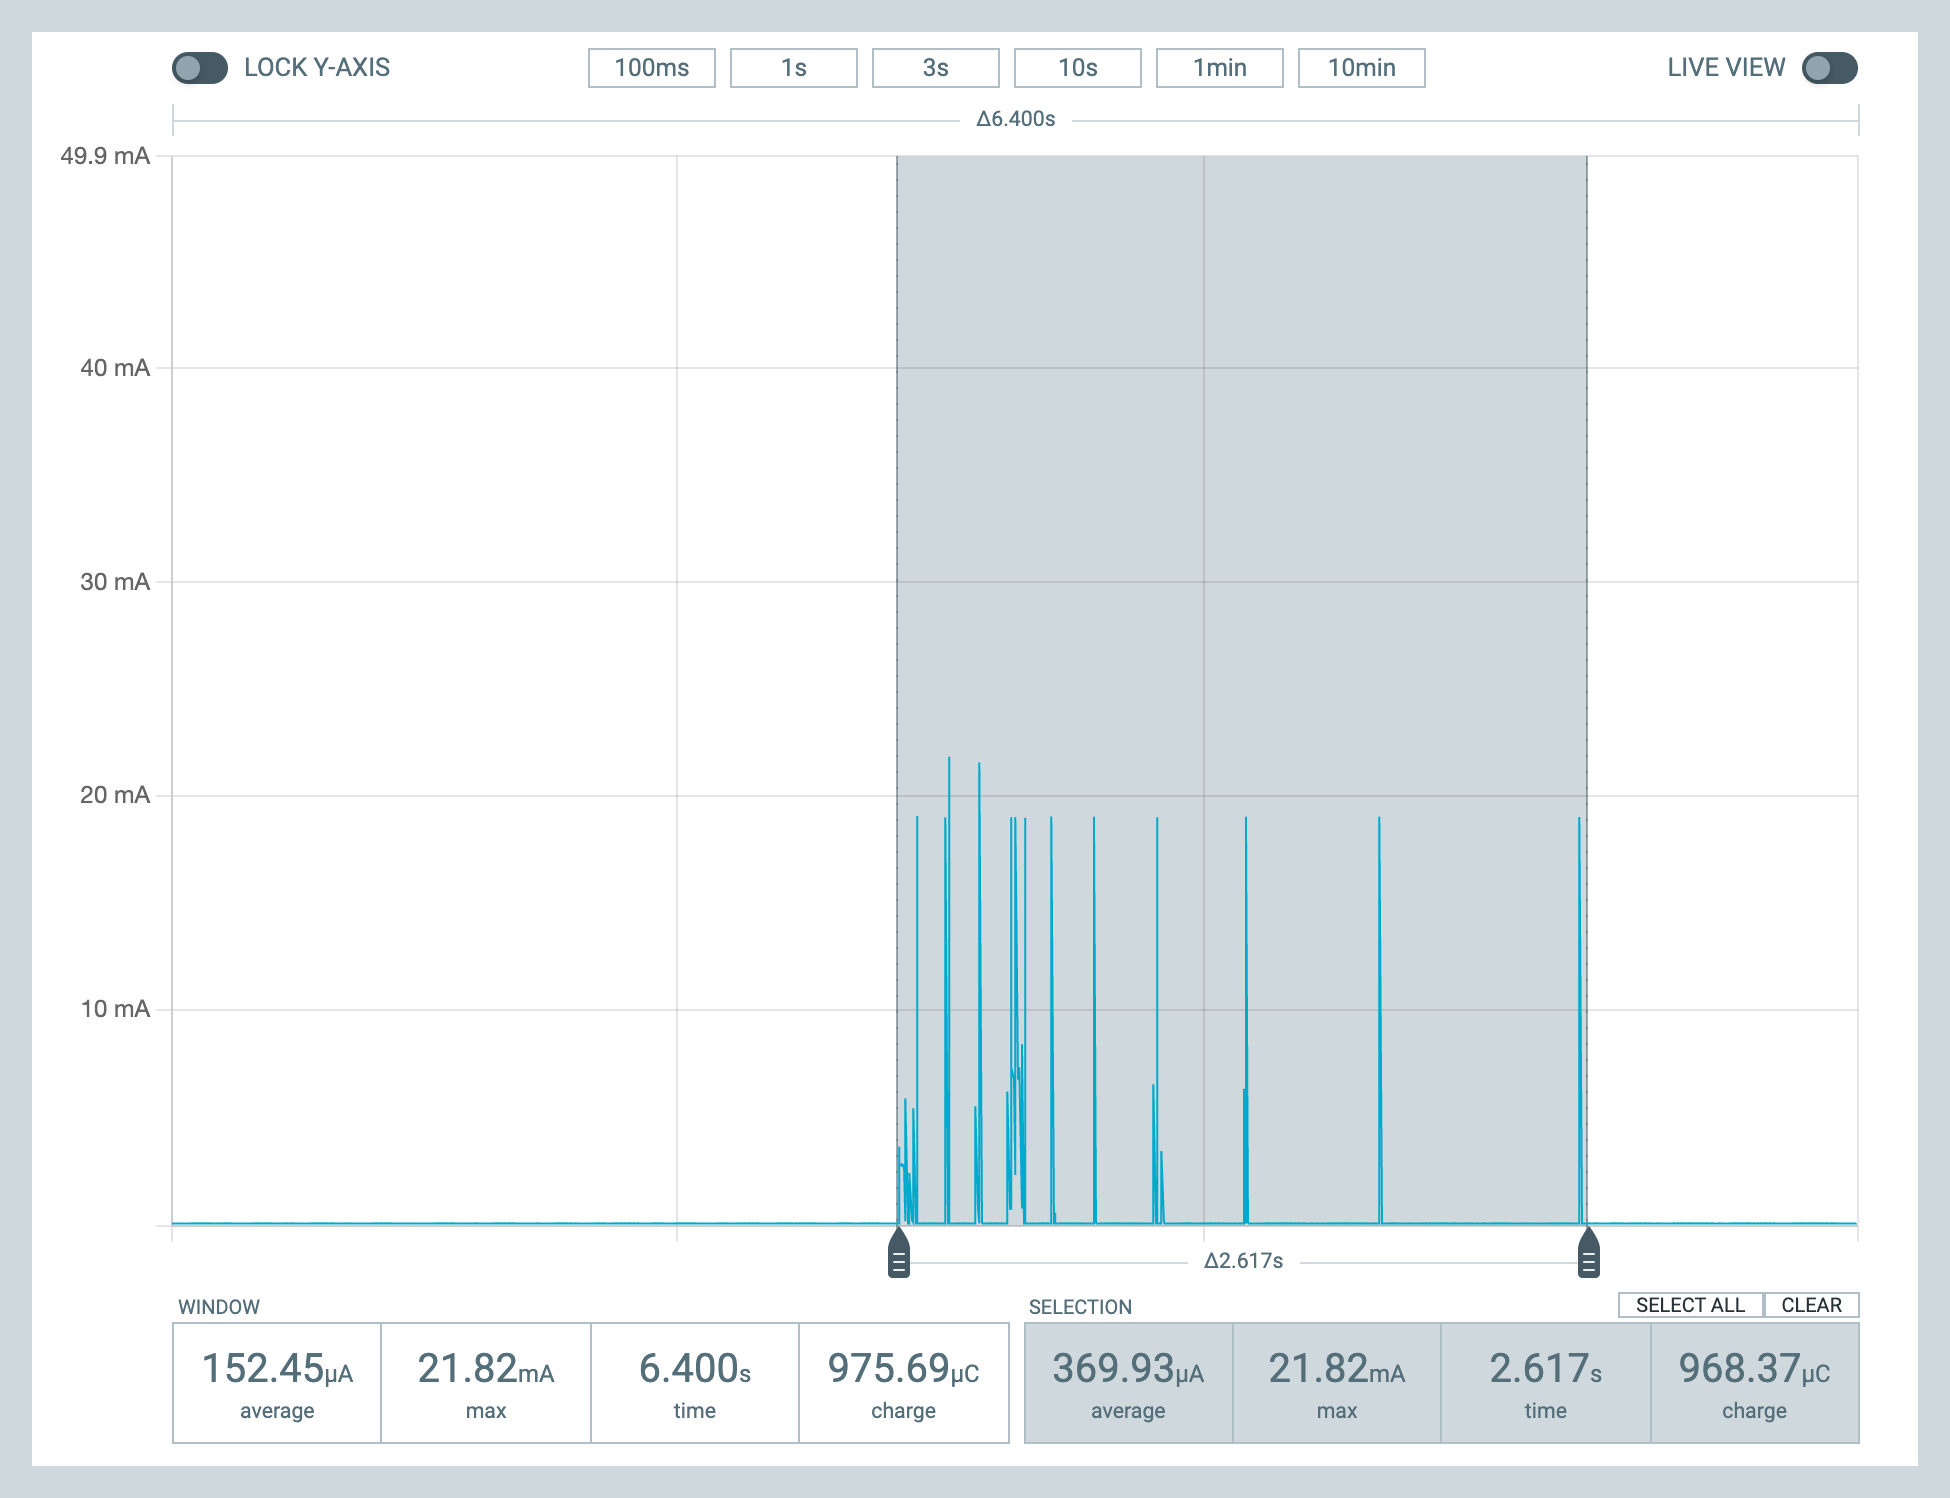
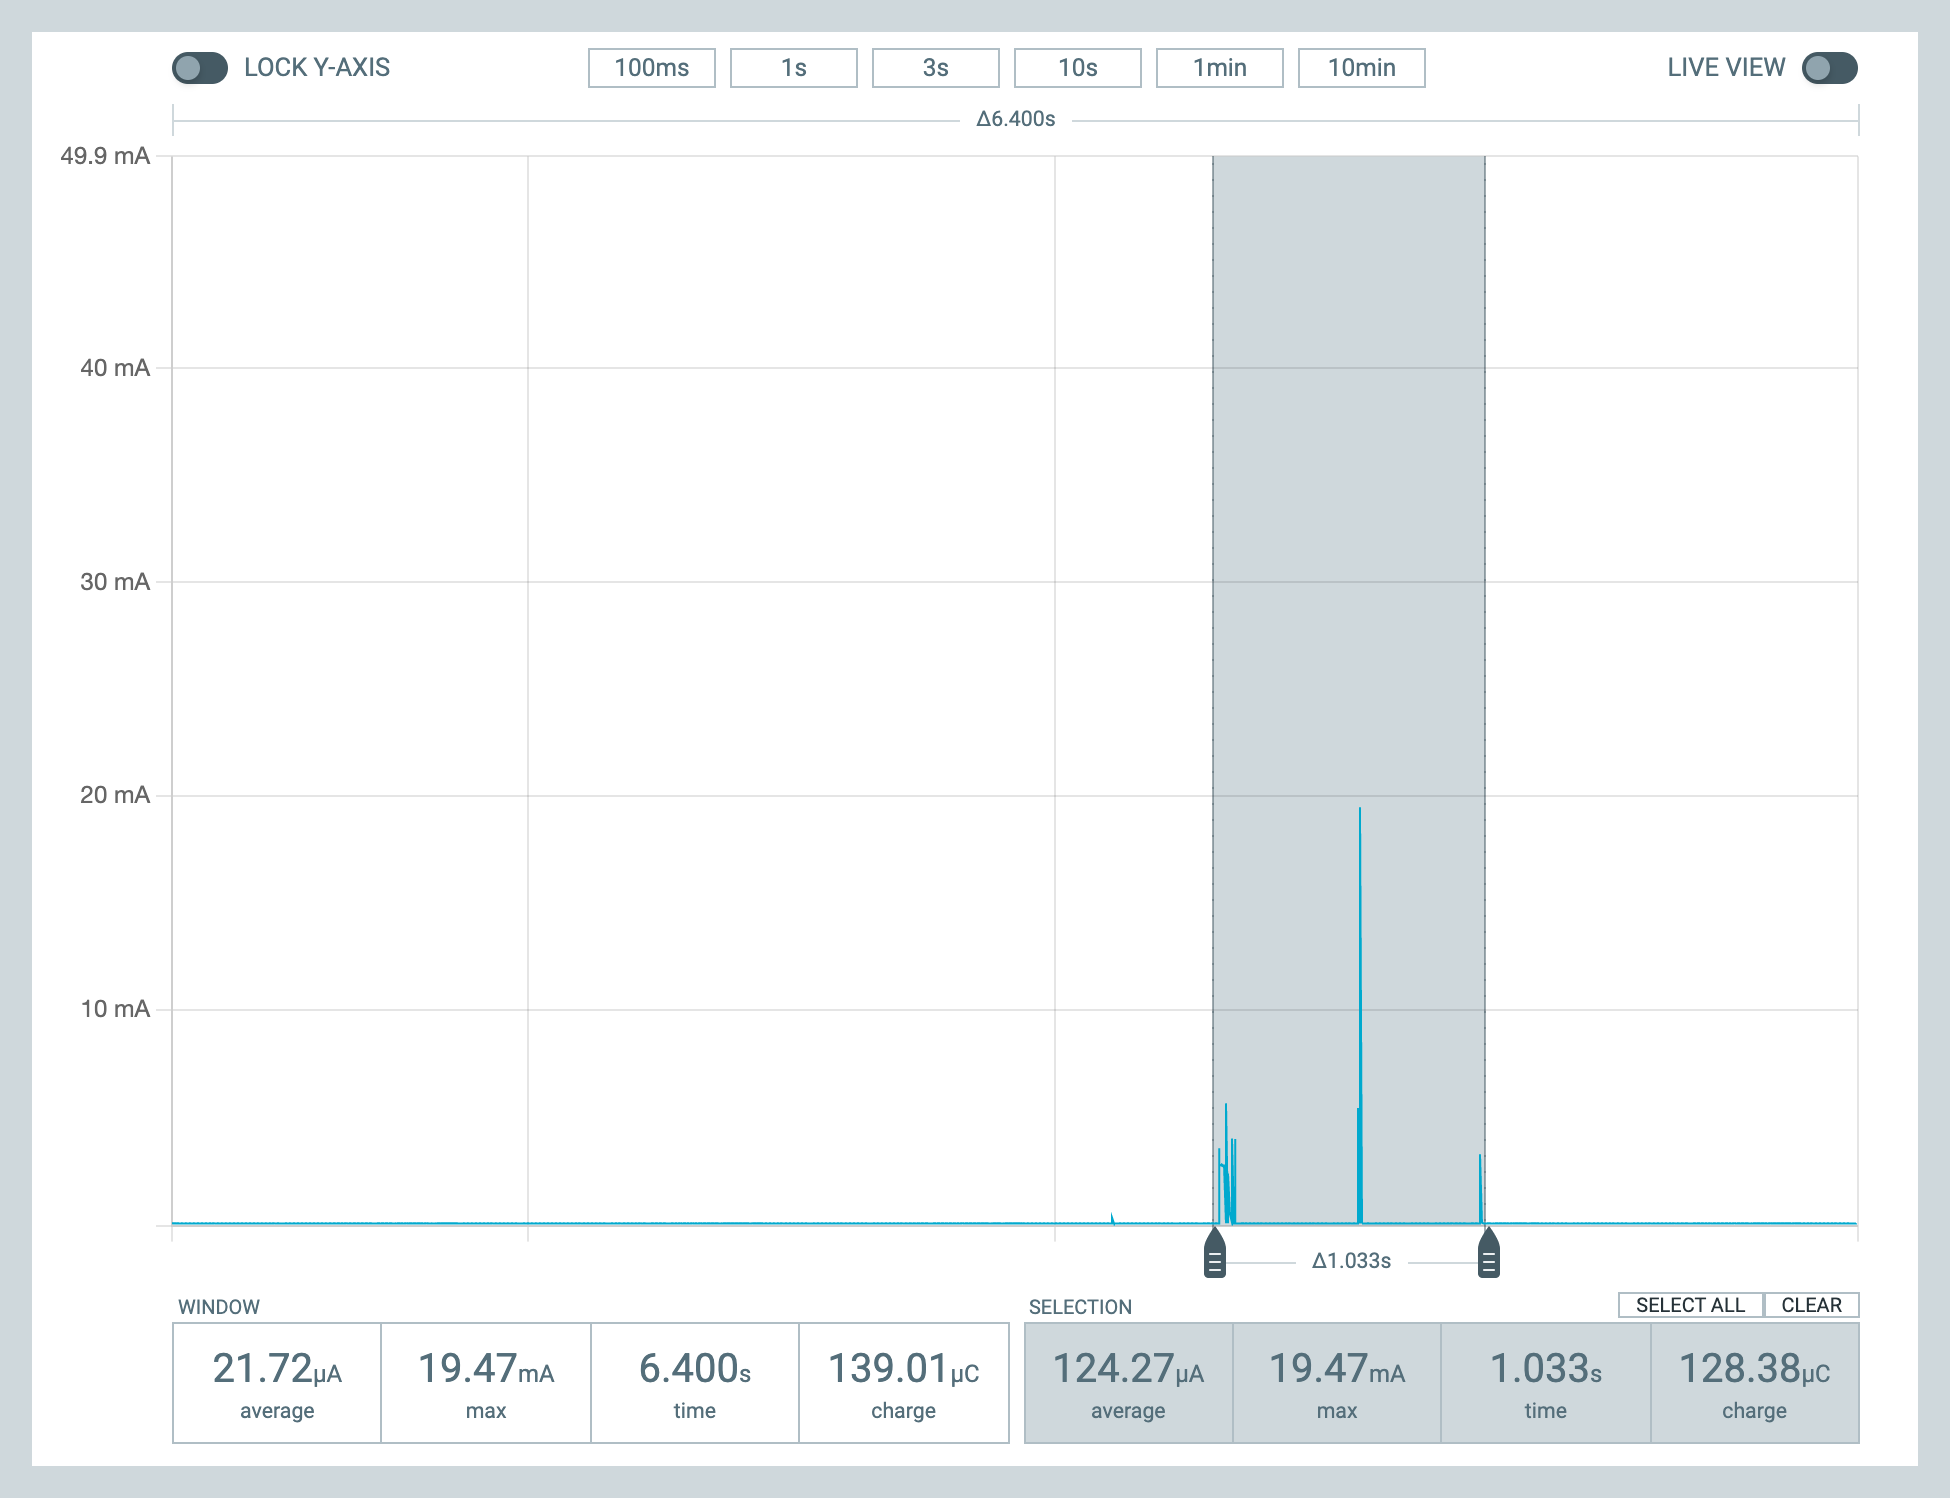
More accurate power profile

diff --git a/code/nrf-connect/samples/zigbee/README.md b/code/nrf-connect/samples/zigbee/README.md
@@ -38,5 +38,5 @@ The [b-parasite.js](b-parasite.js) file contains a converter that can be install
 ## Battery Life
 While sleeping, the device consumes around 2 uA:
 ![sleeping current](./media/power-profile/sleeping.png)
-In the active cycle, it averages around 370 uA for 2.6 seconds:
+In the active cycle, it averages around 125 uA for 1 second:
 ![active current](media/power-profile/active.png)
